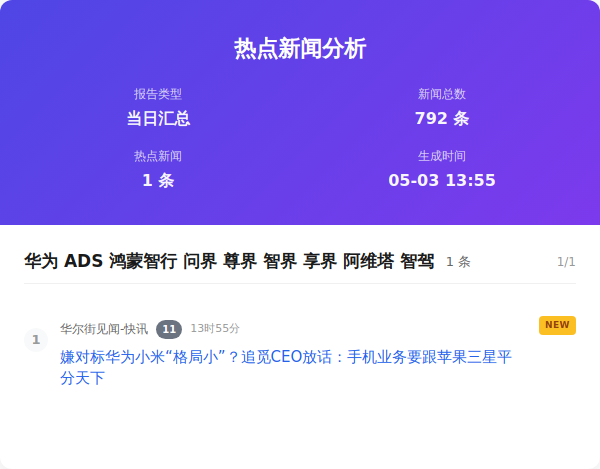
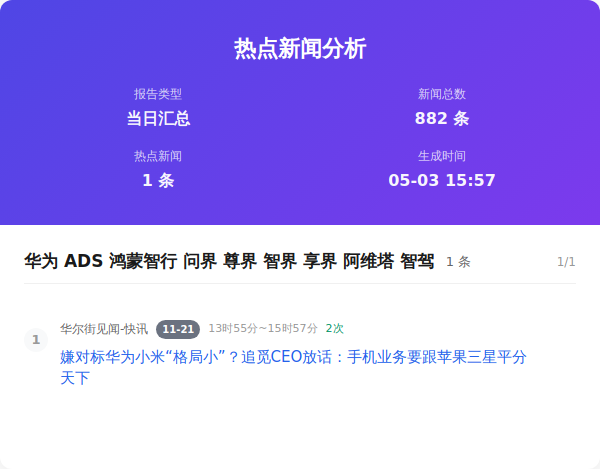
Auto update by GitHub Actions at Sun May  3 15:57:48 CST 2026

diff --git a/output/2026年05月03日/html/当日汇总.html b/output/2026年05月03日/html/当日汇总.html
@@ -357,7 +357,7 @@
                     </div>
                     <div class="info-item">
                         <span class="info-label">新闻总数</span>
-                        <span class="info-value">792 条</span>
+                        <span class="info-value">882 条</span>
                     </div>
                     <div class="info-item">
                         <span class="info-label">热点新闻</span>
@@ -365,7 +365,7 @@
                     </div>
                     <div class="info-item">
                         <span class="info-label">生成时间</span>
-                        <span class="info-value">05-03 13:55</span>
+                        <span class="info-value">05-03 15:57</span>
                     </div>
                 </div>
             </div>
@@ -379,11 +379,11 @@
                         </div>
                         <div class="word-index">1/1</div>
                     </div>
-                    <div class="news-item new">
+                    <div class="news-item ">
                         <div class="news-number">1</div>
                         <div class="news-content">
                             <div class="news-header">
-                                <span class="source-name">华尔街见闻-快讯</span><span class="rank-num ">11</span><span class="time-info">13时55分</span>
+                                <span class="source-name">华尔街见闻-快讯</span><span class="rank-num ">11-21</span><span class="time-info">13时55分~15时57分</span><span class="count-info">2次</span>
                             </div>
                             <div class="news-title"><a href="https://wallstreetcn.com/livenews/3098229" target="_blank" class="news-link">嫌对标华为小米“格局小”？追觅CEO放话：手机业务要跟苹果三星平分天下</a>
                             </div>